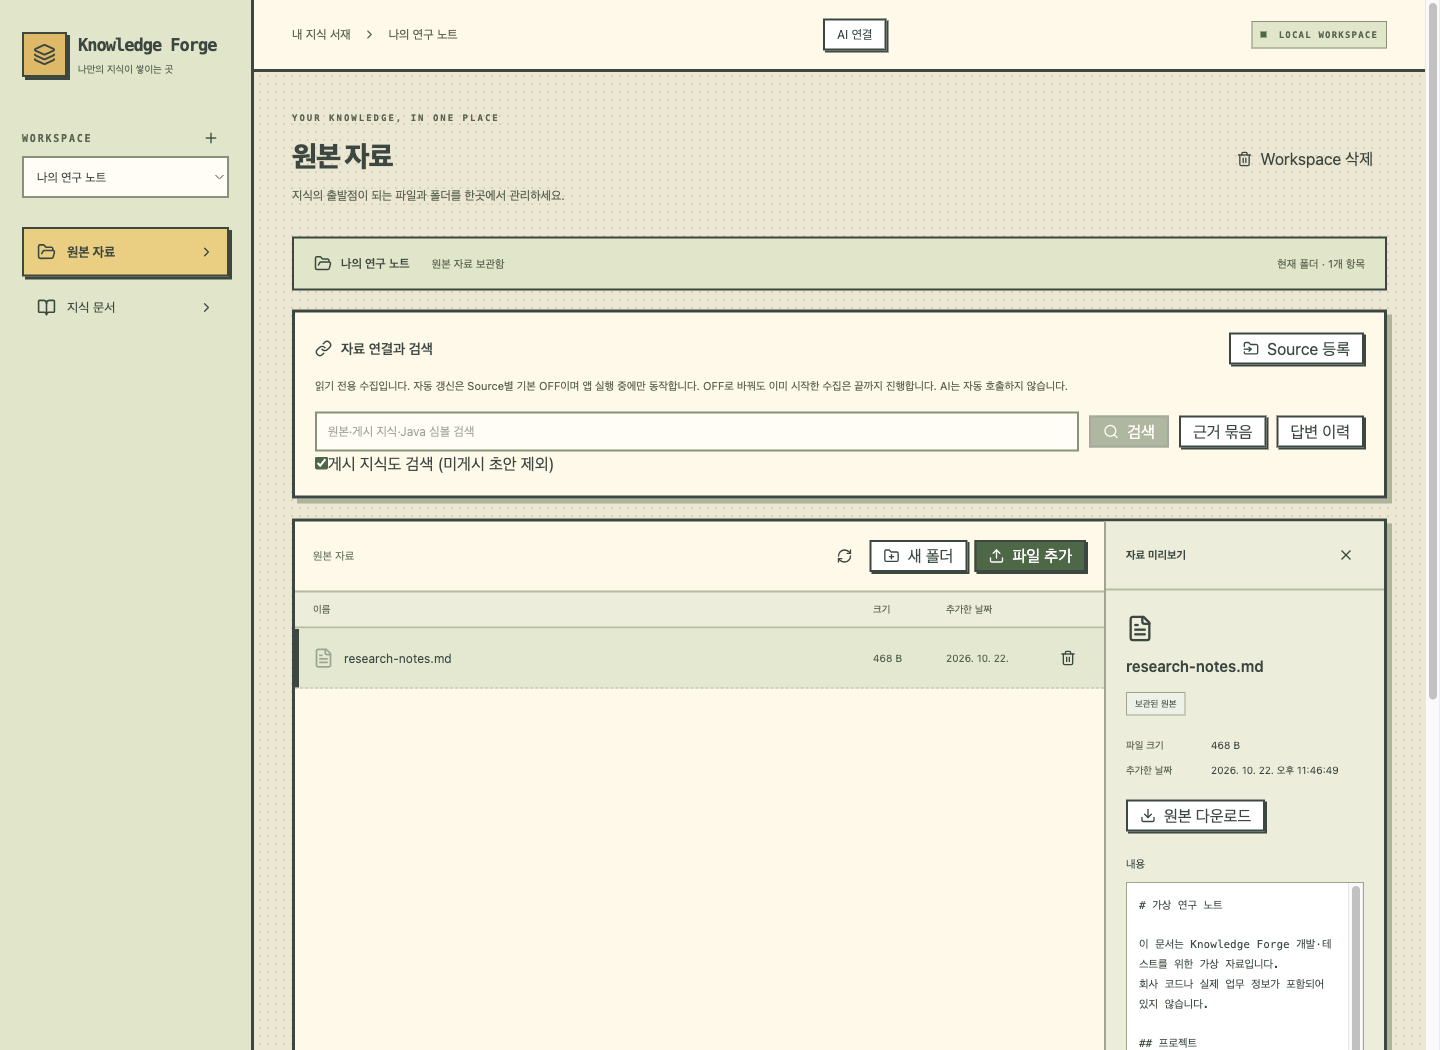
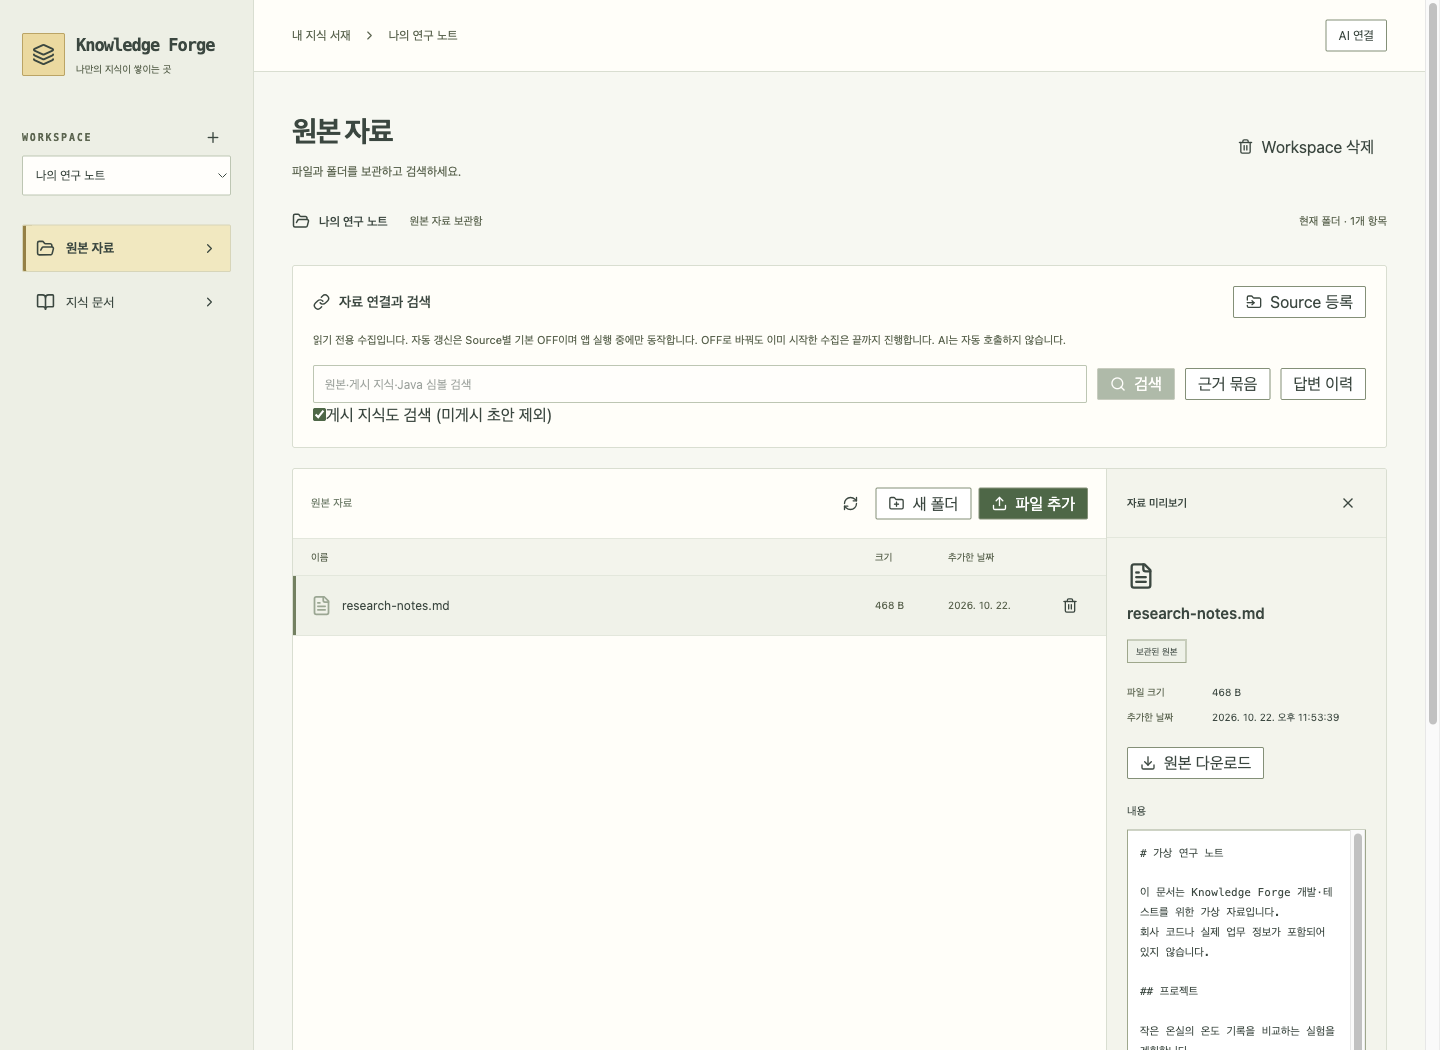
feat: simplify pixel interface and release Mac 0.1.2 installers

diff --git a/frontend/src/retro.css b/frontend/src/retro.css
@@ -1,49 +1,49 @@
 :root {
   --game-ink: #35463d;
-  --game-paper: #fff9e8;
+  --game-paper: #fffef9;
   --game-muted: #59664d;
   color: var(--game-ink);
-  background: #eee8d1;
+  background: #f7f8f2;
 }
 
-.app-shell { background-image: radial-gradient(#d6d3bb 1px, transparent 1px); background-size: 8px 8px; }
-.sidebar { background: #e1e6c9; border-right: 3px solid var(--game-ink); }
+.app-shell { background: #f7f8f2; }
+.sidebar { background: #edf0e5; border-right: 1px solid #d9dfd1; }
 .brand { font-family: ui-monospace, monospace; letter-spacing: -1px; }
-.brand-icon { border: 2px solid var(--game-ink); border-radius: 0; background: #e6ba58; color: var(--game-ink); box-shadow: 3px 3px 0 var(--game-ink); }
+.brand-icon { border: 1px solid #c1a55a; border-radius: 2px; background: #efda9a; color: var(--game-ink); }
 .brand small { font-family: -apple-system, BlinkMacSystemFont, sans-serif; color: var(--game-muted); letter-spacing: 0; }
 .workspace-label, .eyebrow, .local-badge { font-family: ui-monospace, monospace; font-weight: 700; color: var(--game-muted); }
-.nav-item { border-radius: 0; border: 2px solid transparent; color: var(--game-ink); }
-.nav-item.active { border-color: var(--game-ink); background: #f0cf77; color: var(--game-ink); box-shadow: 3px 3px 0 var(--game-ink); }
-.nav-item:hover:not(.active) { background: #cbd6b2; border-color: #849576; }
+.nav-item { border-radius: 2px; border: 1px solid transparent; color: var(--game-ink); }
+.nav-item.active { border-color: #d9d6b7; background: #f3e9bd; color: var(--game-ink); box-shadow: inset 3px 0 #9b8137; }
+.nav-item:hover:not(.active) { background: #e0e7d8; }
 .sidebar-note { color: var(--game-ink); }
 .sidebar-note p, .sidebar-bottom, .sidebar-bottom small { color: var(--game-muted); }
 .sidebar-note span { border: 1px solid var(--game-ink); padding: 6px; background: var(--game-paper); letter-spacing: 0; }
-.sidebar-bottom { border-top: 2px dashed #849576; }
-.topbar { background: var(--game-paper); border-bottom: 3px solid var(--game-ink); color: var(--game-muted); gap: 12px; }
-.local-badge { border: 1px solid #849576; padding: 6px 8px; background: #e1e6c9; }
+.sidebar-bottom { border-top: 1px solid #d9dfd1; margin-top: auto; }
+.topbar { background: var(--game-paper); border-bottom: 1px solid #d9dfd1; color: var(--game-muted); gap: 12px; }
+.local-badge { padding: 6px 0; }
 .local-badge i { border-radius: 0; background: #456842; }
-.page-heading h1 { font-weight: 800; }
+.page-heading h1 { font-weight: 700; }
 .subtitle { color: var(--game-muted); }
 .welcome, .explorer, .source-panel, .knowledge-panel {
-  border: 3px solid var(--game-ink); border-radius: 0; background: var(--game-paper); box-shadow: 5px 5px 0 #adb697;
+  border: 1px solid #d9dfd1; border-radius: 3px; background: var(--game-paper); box-shadow: none;
 }
-.welcome { padding: 0 26px 32px; overflow: hidden; justify-content: flex-start; }
-.pixel-landscape { width: calc(100% + 52px); height: auto; max-height: 250px; flex-shrink: 0; display: block; background: #b6d9d0; border-bottom: 3px solid var(--game-ink); image-rendering: pixelated; margin: 0 -26px 28px; }
+.welcome { padding: 40px 26px; overflow: hidden; justify-content: center; }
+.pixel-landscape { width: 240px; max-width: 100%; height: auto; flex-shrink: 0; display: block; image-rendering: pixelated; margin: 0 0 28px; }
 .welcome h2 { font-weight: 800; font-size: clamp(19px, 2.2vw, 25px); }
 .welcome > p:not(.eyebrow), .welcome small { color: var(--game-muted); }
 .welcome .eyebrow { color: #7a5730; }
-.summary-strip { background: #e1e6c9; border: 2px solid var(--game-ink); border-radius: 0; color: var(--game-muted); }
+.summary-strip { background: transparent; border: 0; border-radius: 0; padding: 0 0 16px; color: var(--game-muted); }
 .summary-strip span:first-child { color: var(--game-ink); }
-.preview-pane, .table-head { background: #eeeeda; }
-.preview-pane { border-left: 2px solid #9da98a; }
-.table-head { border-block: 2px solid #b4bea1; color: var(--game-muted); }
-.file-row { border-bottom: 1px dashed #b4bea1; }
-.file-row.selected { background: #f5dfa0; box-shadow: inset 4px 0 var(--game-ink); }
-.file-row:hover { background: #e4e9cf; }
+.preview-pane, .table-head { background: #f3f5ec; }
+.preview-pane { border-left: 1px solid #d9dfd1; }
+.table-head { border-block: 1px solid #e3e8dc; color: var(--game-muted); }
+.file-row { border-bottom: 1px solid #e3e8dc; }
+.file-row.selected { background: #edf1e3; box-shadow: inset 3px 0 #70825d; }
+.file-row:hover { background: #f0f3e9; }
 .file-name, .preview-content, .preview-content h2 { color: var(--game-ink); }
 .file-name .folder-icon { color: #8b6530; fill: #efcc79; }
-.preview-heading { border-bottom: 2px solid #b4bea1; color: var(--game-ink); font-weight: 700; }
-.empty-icon { border: 2px solid var(--game-ink); border-radius: 0; background: #e1e6c9; box-shadow: 3px 3px 0 #adb697; color: #4c6848; }
+.preview-heading { border-bottom: 1px solid #e3e8dc; color: var(--game-ink); font-weight: 600; }
+.empty-icon { border: 1px solid #d9dfd1; border-radius: 2px; background: #edf1e3; color: #4c6848; }
 .empty-state, .empty-state p, .empty-state > span, .preview-empty, .preview-empty strong, .preview-empty p,
 .pane-footer, .phase-note, .file-meta, .source-hint, .source-info span, .source-info small,
 .source-polling small, .search-results > p, .search-results small, .domain-options legend, dt { color: var(--game-muted); }
@@ -54,27 +54,26 @@
 select, input:not([type=checkbox]):not([type=radio]):not([type=file]), textarea,
 .source-form input, .search-form input, .knowledge-form input, .knowledge-form textarea, .knowledge-form select,
 .dialog-content input, .cli-launch-form input:not([type=checkbox]) {
-  border: 2px solid #849576; border-radius: 0; background: #fffdf4; color: var(--game-ink);
+  border: 1px solid #bcc8b3; border-radius: 2px; background: #fffefb; color: var(--game-ink);
 }
 input[type=checkbox], input[type=radio] { accent-color: #456842; }
-[data-slot=button] { border-radius: 0; border: 2px solid var(--game-ink); box-shadow: 2px 2px 0 var(--game-ink); }
+[data-slot=button] { border-radius: 2px; border: 1px solid #829276; box-shadow: none; }
 [data-slot=button][data-variant=ghost] { border-color: transparent; box-shadow: none; }
-[data-slot=button]:active:not(:disabled) { transform: translate(2px, 2px); box-shadow: none; }
+[data-slot=button]:active:not(:disabled) { transform: translateY(1px); }
 [data-slot=button]:disabled { box-shadow: none; }
 button:focus-visible, select:focus-visible, input:focus-visible, textarea:focus-visible, a:focus-visible, summary:focus-visible {
   outline: 3px solid #a04b31; outline-offset: 4px;
 }
 .dialog-overlay { background: #35463d88; backdrop-filter: none; }
-.dialog-content, .proposal-merge { border: 4px double var(--game-ink); border-radius: 0; background: var(--game-paper); box-shadow: 6px 6px 0 #35463d88; }
+.dialog-content, .proposal-merge { border: 1px solid #829276; border-radius: 3px; background: var(--game-paper); box-shadow: 0 12px 40px #35463d26; }
 .dialog-content > p { color: var(--game-muted); }
 .proposal-merge::backdrop { background: #35463d88; }
 .error-banner { border: 2px solid #a04b31; border-radius: 0; background: #ffecd7; color: #843c29; }
 .markdown-preview { font-size: 14px; color: var(--game-ink); }
-@media (max-width: 1100px) { .preview-pane { border-left: 0; border-top: 2px solid #9da98a; } }
+@media (max-width: 1100px) { .preview-pane { border-left: 0; border-top: 1px solid #d9dfd1; } }
 @media (max-width: 650px) {
-  .sidebar { border-right: 0; border-bottom: 3px solid var(--game-ink); }
+  .sidebar { border-right: 0; border-bottom: 1px solid #d9dfd1; }
   .welcome { padding-inline: 16px; }
-  .pixel-landscape { width: calc(100% + 32px); margin-inline: -16px; }
   .topbar > span:first-child { min-width: 0; overflow-wrap: anywhere; font-size: 11px; }
   .summary-strip { flex-wrap: wrap; gap: 10px; }
   .search-form { flex-wrap: wrap; }

diff --git a/frontend/src/App.tsx b/frontend/src/App.tsx
@@ -1,6 +1,6 @@
 import { lazy, Suspense, useEffect, useRef, useState, type FormEvent } from 'react'
 import * as Dialog from '@radix-ui/react-dialog'
-import { BookOpen, ChevronRight, Download, FileText, Folder, FolderOpen, FolderPlus, Layers3, Library, Plus, RefreshCw, ShieldCheck, Trash2, Upload, X } from 'lucide-react'
+import { BookOpen, ChevronRight, Download, FileText, Folder, FolderOpen, FolderPlus, Layers3, Plus, RefreshCw, ShieldCheck, Trash2, Upload, X } from 'lucide-react'
 import { Button } from './components/ui/button'
 import { entryPath, request, type Area, type Entry, type EvidenceLocation, type Preview, type Session } from './api'
 import SourcePanel from './SourcePanel'
@@ -184,21 +184,20 @@ export default function App() {
           <button className={original ? 'nav-item active' : 'nav-item'} disabled={busy} onClick={() => resetNavigation('ORIGINAL')}><FolderOpen size={19} /> 원본 자료 <ChevronRight size={15} /></button>
           <button className={!original ? 'nav-item active' : 'nav-item'} disabled={busy} onClick={() => resetNavigation('KNOWLEDGE')}><BookOpen size={19} /> 지식 문서 <ChevronRight size={15} /></button>
         </nav>
-        <div className="sidebar-note"><Library size={21} /><strong>작은 자료에서, 연결된 지식으로.</strong><p>자료를 연결하고<br />문서와 코드의 근거를 찾아보세요.</p><span>근거 기반 지식 · 질문</span></div>
         <div className="sidebar-bottom"><ShieldCheck size={17} /><span>이 PC에 자료 저장<small>AI 전송은 건별 승인</small></span></div>
       </aside>
 
       <main>
-        <header className="topbar"><span>내 지식 서재 <ChevronRight size={14} /> {workspace?.name ?? '시작하기'}</span><Button variant="outline" size="sm" disabled={!ready} onClick={() => setCliSettingsOpen(true)}>AI 연결</Button><span className="local-badge"><i /> LOCAL WORKSPACE</span></header>
+        <header className="topbar"><span>내 지식 서재 <ChevronRight size={14} /> {workspace?.name ?? '시작하기'}</span><Button variant="outline" size="sm" disabled={!ready} onClick={() => setCliSettingsOpen(true)}>AI 연결</Button></header>
         {cliSettingsOpen && <Suspense fallback={<p role="status">AI 연결을 여는 중…</p>}><ProviderConnectionPanel onClose={() => setCliSettingsOpen(false)} /></Suspense>}
         <div className="page-content">
           <div className="page-heading">
-            <div><p className="eyebrow">YOUR KNOWLEDGE, IN ONE PLACE</p><h1>{original ? '원본 자료' : '지식 문서'}</h1><p className="subtitle">{original ? '지식의 출발점이 되는 파일과 폴더를 한곳에서 관리하세요.' : '원본과 독립적으로 보존되는 근거 연결 초안입니다. 아직 미검증 상태입니다.'}</p></div>
+            <div><h1>{original ? '원본 자료' : '지식 문서'}</h1><p className="subtitle">{original ? '파일과 폴더를 보관하고 검색하세요.' : '원본과 독립적으로 보존되는 근거 연결 초안입니다. 아직 미검증 상태입니다.'}</p></div>
             {workspace && <Button variant="ghost" size="sm" disabled={busy} onClick={() => openModal({ kind: 'delete-workspace' })}><Trash2 /> Workspace 삭제</Button>}
           </div>
           {error && <div role="alert" className="error-banner">{error}<Button variant="ghost" size="sm" disabled={busy} onClick={() => { setError(''); void refreshSession().then(() => setRevision(value => value + 1)).catch(reason => setError(reason.message)) }}>다시 시도</Button></div>}
           {!ready ? <div className="empty-state" role="status">로컬 저장소에 연결하는 중…</div> : !workspace ? (
-            <section className="welcome"><PixelLandscape /><p className="eyebrow">A NEW ADVENTURE IN KNOWLEDGE</p><h2>첫 번째 지식 서재를 만들어 보세요</h2><p>프로젝트별로 Workspace를 나누고,<br />원본 자료를 폴더로 정리할 수 있습니다.</p><Button onClick={() => openModal({ kind: 'workspace' })}><Plus /> Workspace 만들기</Button><small>파일은 이 PC에 저장되며, 원래 파일은 변경되지 않습니다.</small></section>
+            <section className="welcome"><PixelLandscape /><h2>첫 번째 지식 서재를 만들어 보세요</h2><p>프로젝트별로 Workspace를 나누고,<br />원본 자료를 폴더로 정리할 수 있습니다.</p><Button onClick={() => openModal({ kind: 'workspace' })}><Plus /> Workspace 만들기</Button><small>파일은 이 PC에 저장되며, 원래 파일은 변경되지 않습니다.</small></section>
           ) : (
             <>
               <div className="summary-strip"><span><FolderOpen size={18} />{workspace.name}</span><span>{original ? '원본 자료 보관함' : '독립 지식 보관함'}</span><span className="summary-end">{original ? `현재 폴더 · ${entries.length}개 항목` : '수동 초안 · 버전 보존'}</span></div>

diff --git a/docs/release-0.1.2-report.md b/docs/release-0.1.2-report.md
@@ -1,0 +1,37 @@
+# 0.1.2 Mac 미리보기 — 배포 기록
+
+## 변경 내용
+
+- 점무늬·두꺼운 테두리·큰 그림자·반복 문구를 덜고, 작은 픽셀 그림만 남긴 화면.
+- 제공자 선택 기억, 인증 상태 확인, 명시적 브라우저 로그인과 중단.
+- Intel/Apple Silicon별 Codex 0.163.0 실행 도구와 Java 21 동봉.
+- 비개발자용 README와 실제 화면 스크린샷. 저장 형식은 SQLite v21 유지.
+
+## 검증
+
+- UI 전체 201개 통과, TypeScript/Vite 빌드와 최종 JAR 패키징 성공.
+- 연결 기능의 백엔드·Rust 검사 수치는 [연결 검증 기록](connection-verification.md)을 따릅니다. 이번 화면 변경으로 해당 로직을 변경하지 않았습니다.
+- 실제 JAR에 가상 AI 도구를 연결한 인증 smoke 통과. 실제 계정이나 모델 호출은 하지 않았습니다.
+- 브라우저에서 첫 서재 생성·가상 파일 업로드·미리보기 확인. 390px 화면에서 가로 넘침 없이 검색 입력 폭 301px 확인.
+- README 이미지는 해당 JAR의 실제 UI를 브라우저에서 촬영했습니다. 목업이나 가짜 AI 답변이 아니며 가상 자료만 사용합니다.
+- Intel DMG의 이미지·서명·CPU 검사, 설치 복사본에서 동봉 Java/React·업로드·검색·게시 실행 통과.
+- Intel 앱 실행 파일을 격리 HOME·최소 PATH에서 실행하여 시작·중복 실행 거부·종료·재시작 통과. [기록](native-host-report.json). 빌드와 동시에 실행한 단일 시작 측정은 26,479ms로 일반 환경 성능 보증이 아닙니다.
+- ARM DMG의 무결성·설치 복사본·앱/Java/Codex CPU 일치·ad-hoc 서명 검사 통과. 실제 ARM 실행은 하지 않았습니다.
+
+## 설치 파일
+
+[0.1.2 다운로드](https://github.com/thisisnew/knowledge-forge/releases/tag/v0.1.2-preview.1). 각 CPU의 DMG와 해당 `SHA256SUMS` 파일을 제공합니다.
+
+| 파일 | 크기(bytes) | SHA-256 |
+|---|---:|---|
[2 lines of base64/hex data omitted]
+
[1 lines of base64/hex data omitted]
+동봉 Java와 Codex 실행 파일은 각 CPU에 맞게 별도로 묶었습니다. 이 배포는 0.1.1 설치 파일을 대체하는 새 미리보기이며 이전 릴리스는 보존합니다.
+
+## 검증 범위
+
+Apple 공증은 요청에 따라 제외합니다. ARM 실기기 실행, 실제 계정의 로그인/답변은 별도 확인입니다.
+Claude 실행 도구와 GitHub 수집용 Git은 아직 별도 실행 환경에 의존합니다.
+이전 설치를 업데이트할 때 앱을 종료하고 자료 폴더 전체를 백업하세요. [설치·백업 안내](macos-install.md).

diff --git a/docs/retro-design.md b/docs/retro-design.md
@@ -4,10 +4,11 @@
 
 ## 바뀐 것
 
-- 첫 화면: 직접 작성한 픽셀풍 SVG 서재·나무·구름 풍경.
-- 메뉴: 선택한 칸이 노란색으로 표시되는 게임 메뉴.
-- 창과 버튼: 각진 테두리, 단단한 그림자, 누를 때 살짝 들어가는 버튼.
-- 색: 크림색 종이, 녹색 잔디, 황금색 강조, 짙은 잉크색.
+- 첫 화면: 작은 픽셀풍 서재 그림만 남기고 큰 배경 장식 제거.
+- 메뉴: 선택한 칸에만 은은한 노란색 표시.
+- 창과 버튼: 얇은 테두리, 거의 각진 모서리, 무거운 그림자 제거.
+- 색: 밝은 단색 배경과 절제된 녹색·황금색 강조. 점무늬 배경 제거.
+- 내용: 반복적인 소개 문구와 영어 장식 문구를 덜고 자료·버튼에 집중.
 - 문서 본문: 도트 글꼴을 강요하지 않고 읽기 쉬운 한글/코드 글꼴 유지.
 
 자료 등록·전송 승인·최신성·삭제 기능은 그대로입니다. 장식용 경험치나 가짜 연결 상태를 표시하지 않습니다.
@@ -19,10 +20,10 @@
 기존 레이아웃 위에 테마를 적용하며 키보드 포커스·좁은 화면·문서 가독성을 유지합니다.
 장식 SVG는 스크린리더에서 제외합니다. 버튼의 의미와 실제 동작은 바꾸지 않습니다.
 
-개발 소스에 적용한 디자인입니다. 앞서 검증한 로컬 0.1.2 DMG와 공개 0.1.1에는 아직 포함되지 않았으므로 설치본을 다시 빌드해야 합니다.
+0.1.2 설치본에 포함된 디자인입니다. [설치 파일과 검증 기록](release-0.1.2-report.md). 0.1.1에는 포함되지 않습니다.
 
 ## 검증
 
 UI 회귀 테스트 201개 통과, TypeScript/Vite 빌드 성공. 실제 JAR 화면에서 첫 서재·Workspace 생성·자료 탐색기·AI 연결 창을 확인했습니다.
 390px 폭도 확인했으며, 검색 입력이 지나치게 좁아지는 문제를 발견해 작은 화면에서는 입력과 버튼을 다음 줄로 나누도록 수정하고 다시 빌드했습니다.
-배경 점무늬는 본문과 경쟁하지 않도록 대비를 낮췄습니다. 기능/API/DB 모델은 바꾸지 않았습니다.
+후속 정돈에서 배경 점무늬를 완전히 없애고 그림과 테두리를 줄였습니다. 최종 390px 화면에서도 가로 넘침이 없고 검색 입력 폭은 301px입니다. 기능/API/DB 모델은 바꾸지 않았습니다.

diff --git a/HANDOFF.md b/HANDOFF.md
@@ -1,5 +1,17 @@
 # Knowledge Forge — 이어서 작업하기
 
+## 최신 기준: 0.1.2
+
+- README를 비개발자용 소개·실제 화면 2장·설치법·기술 스택·상세 링크로 다시 작성한 뒤, 사용자 요청에 따라 디자인을 정돈했습니다.
+- 점무늬·강한 그림자·반복 문구를 제거하고 작은 픽셀 그림, 얇은 테두리, 밝은 배경만 남겼습니다.
+- 최신 코드/UI/설치본·체크섬은 [0.1.2 배포 기록](docs/release-0.1.2-report.md)을 따릅니다. UI 201개 통과. DB v21 유지.
+- 변경 완료에는 설치 파일 갱신·검증·공개 배포·README 스크린샷 동기화를 포함합니다. 소개글 작성 후 디자인 작업 순서를 지켰습니다.
+- 실제 계정 로그인/추론·Claude 동봉·ARM 실기기는 별도입니다. 공증은 제외합니다.
+
+## 이전 진행 기록
+
+아래는 디자인 변경 전후의 작업 이력입니다. 당시 '개발 소스만 반영/미공개' 표현과 체크섬을 최신 배포 상태로 해석하지 마세요.
+
 최신 사용자 디자인 요청: 2D 도트게임풍 테마를 개발 소스에 적용했습니다. [디자인/검증](docs/retro-design.md). UI 201개 통과, 빌드 성공. 아래 로컬 0.1.2 DMG는 디자인 변경 전이므로 다시 빌드해야 합니다.
 
 후속 개선: 0.1.2 개발 소스에 **AI 연결**(기본 제공자 선택 기억·명시적 인증 확인·브라우저 로그인·중단), Codex 0.163.0 CPU별 동봉 빌드를 추가했습니다. DB v21 유지. [설계/검증/남은 범위](docs/provider-connection.md). 공개 0.1.1은 이 변경 이전입니다. Claude 동봉 조건은 사용자에게 별도 확인 요청했으며 실제 계정 로그인·추론은 실행하지 않았습니다.

diff --git a/AGENTS.md b/AGENTS.md
@@ -1,6 +1,6 @@
 # Knowledge Forge 개발 지침
 
-- GitHub 소개 페이지(README)는 비개발자 고객이 이해하는 말로 작성한다. 앱의 가치·실제 화면·다운로드·첫 사용 순서·안전 안내를 먼저 보여 주고, 기술 스택·명령어·내부 상태·테스트 세부 수치는 개발 문서로 분리한다. 미완료 기능을 광고하지 않으며 쉬운 표현으로도 실제 AI/ARM 검증 한계는 숨기지 않는다.
+- GitHub 소개 페이지(README)는 비개발자 고객 기준의 짧은 소개·실제 화면·설치법·기술 스택·상세 문서 링크만 담는다. '현재 한계'나 긴 내부 설명은 README에서 제외하고 설치 안내/검증 문서에 보존한다. 미완료 기능을 광고하지 않는다. 사용자 요청 순서가 있으면 소개글 작성을 마친 다음 디자인을 변경한다.
 
 - 사용자 상시 요청: 개발·수정 완료 시 설치 파일도 갱신한다. Intel/Apple Silicon별 빌드·해당 검증·GitHub Release 업로드·체크섬 확인까지 완료 기준에 포함한다. README 소개/사용법이 달라지면 함께 수정하고 UI 변경에는 가상 자료로 실제 화면 스크린샷을 제공한다. 소스만 푸시한 상태를 배포 완료라고 보고하지 않는다. 문서만 수정한 경우에는 실행 파일 재빌드가 불필요한지 명시한다. 공증 제외·ARM 실기기 미검증·외부 AI 별도 승인 원칙은 유지한다.
 

diff --git a/docs/backlog.md b/docs/backlog.md
@@ -5,7 +5,7 @@
 - [x] 모델/코드 전체 파일 목록·구조 계약·핵심 회귀 테스트 대조. [감사 결과](model-audit.md).
 - [x] 제공자 선택 기억·인증 상태 확인·명시적 브라우저 로그인·중단, 가상 CLI/API/브라우저 검증.
 - [x] Codex CPU별 해시 고정 동봉 빌드·앱 내부 경로 자동 연결.
-- [ ] 0.1.2 설치 파일 검증·공개 배포. 기존 공개 0.1.1과 구별한다.
+- [x] 0.1.2 Intel/ARM 설치 파일 검증·공개 배포와 소개/스크린샷 동기화. [설치 파일·체크섬·검증](release-0.1.2-report.md). Intel 실행과 ARM 정적 검사 범위를 구분한다.
 - [ ] 사용자 동의하에 실제 계정 로그인/원격 생성 확인. 로그인 상태를 이용 한도 보증으로 표시하지 않는다.
 - [ ] Claude 제품 동봉 조건 확인 후 실행 도구 동봉. 현재는 기존 호환 CLI만 연결 가능.
 - [ ] ARM 실기기 실행·로그인 확인, GitHub 수집용 Git 외부 의존 제거 검토.

diff --git a/docs/phase-plan.md b/docs/phase-plan.md
@@ -1,6 +1,6 @@
 # Phase 완료 기준과 현재 상태
 
-추가 개선: 0.1.2 개발 소스에 제공자 선택·인증 확인·브라우저 로그인과 Codex 동봉 빌드를 구현했습니다. [검증 기록](connection-verification.md). 실제 계정 확인·Claude 동봉·새 설치본 공개는 별도 완료 기준입니다.
+최신 0.1.2: 정돈된 픽셀 UI, 제공자 선택·인증 확인·브라우저 로그인, Codex 동봉. [현재 설치 파일·검증](release-0.1.2-report.md). 실제 계정 확인·Claude 동봉·ARM 실기기 검증은 별도입니다. 아래는 이전 0.1.1 기준 Phase 요약입니다.
 
 기준: 2026-10-22, DB v21, **Intel Mac 0.1.1 공개 미리보기**.
 추가: [Apple Silicon용 패키징](apple-silicon.md). 공증은 사용자 요청으로 현재 작업 범위에서 제외하며 실제 ARM 기기 실행 확인은 별도입니다.
